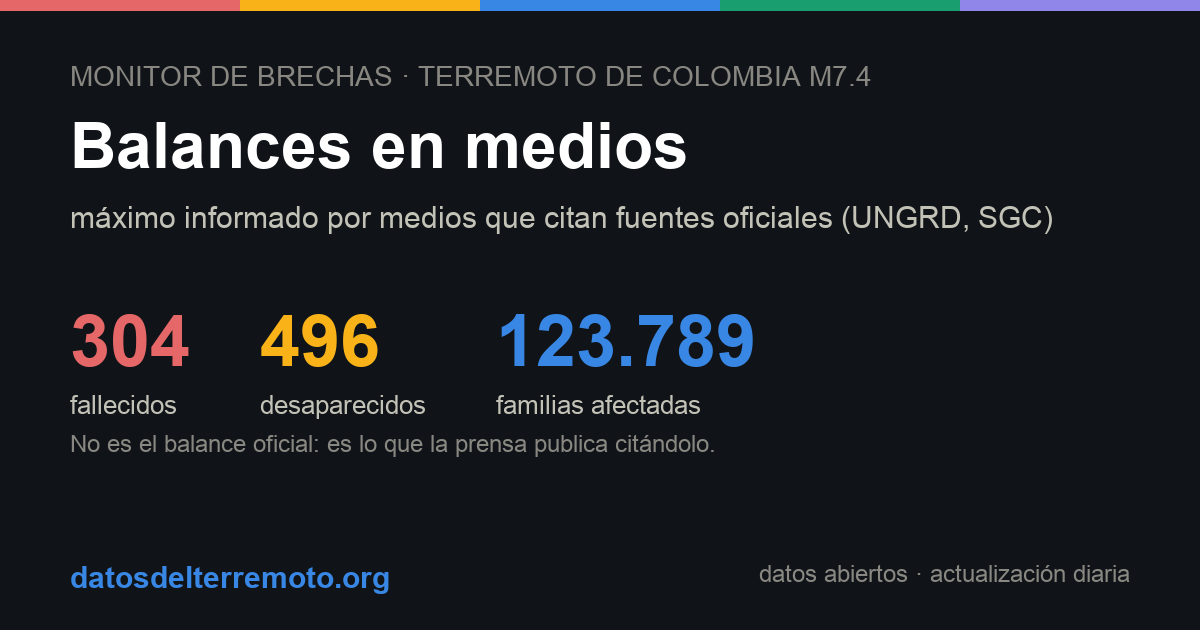
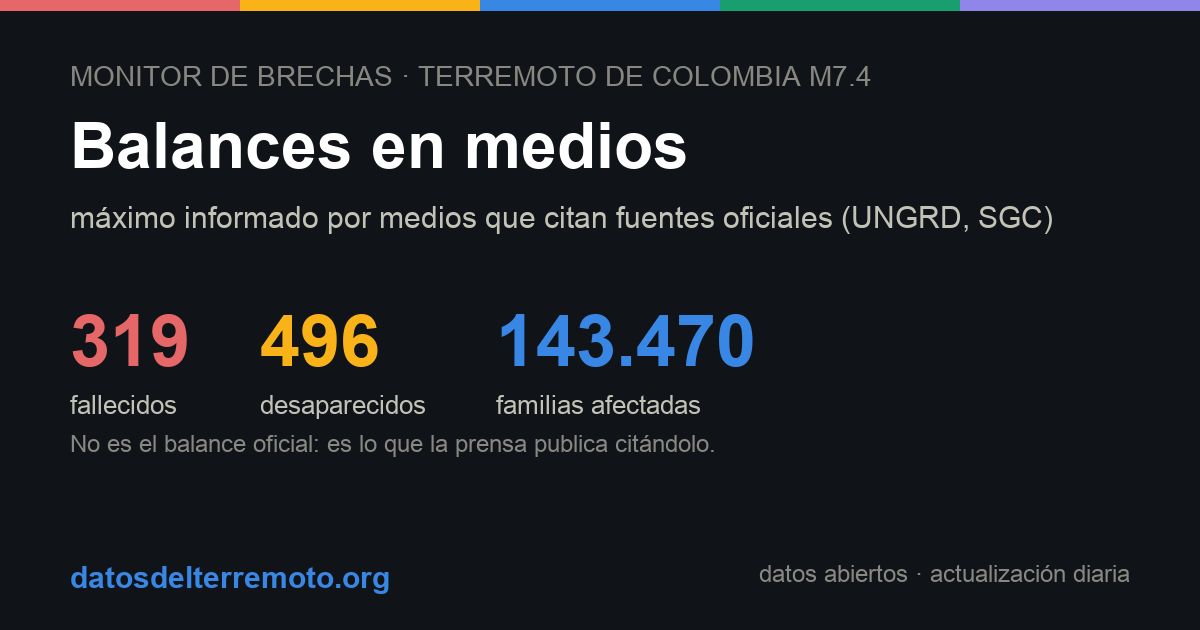
La imagen que se comparte se genera en la corrida, no después: el bucle que dejó la web dos días sin publicar
`gen_og.py` solo corría en el deploy y su resultado no volvía al repositorio, así que
`site/og/portada.json` envejecía cada día hasta contradecir a `monitor.json` —542 reportes
ciudadanos frente a 622—, el test que lo vigila suspendía, y ese suspenso apagaba el deploy,
que era justo lo único capaz de regenerar la imagen. El 22 se cerró el aviso corrigiendo la
cifra a mano y volvió al día siguiente: el bucle no se rompe por el lado del síntoma.

Ahora la corrida diaria regenera las imágenes antes de los tests que las juzgan y `site/og/`
entra en el commit del día. Son las dos mitades: generar sin commitear deja el repositorio
con la imagen vieja mañana, y el bucle se reabre.

El test nuevo vigila las dos —que se genere antes de juzgar y que lo generado se
commitee—, validado mutando cada mitad por separado y también el orden.

Changed region(s): [[0.5242, 0.4825, 0.6167, 0.6032], [0.0925, 0.4825, 0.1542, 0.6032], [0.4317, 0.4825, 0.4933, 0.6032]]

diff --git a/tests/test_unit.py b/tests/test_unit.py
@@ -2366,3 +2366,29 @@ class TestLaImagenCompartidaNoSeQuedaAtras(unittest.TestCase):
             "gen_og.py", build,
             "build_dist.sh no regenera las imágenes compartidas: volverán a "
             "quedarse atrás en silencio la próxima vez que cambie una cifra")
+
+    def test_la_corrida_diaria_regenera_la_imagen_antes_de_juzgarla(self):
+        """El bucle que dejó la web dos días sin publicar (23 y 24-ago-2026).
+
+        Regenerar en el deploy no basta: allí ya se hacía, pero el resultado
+        no volvía al repo, así que el fichero versionado envejecía y el test
+        de arriba suspendía cada mañana — y ese suspenso apagaba el deploy,
+        que era lo único que regeneraba la imagen. Para romperlo hacen falta
+        las dos mitades: generar ANTES de juzgar, y commitear lo generado."""
+        daily = (self.RAIZ / ".github" / "workflows" / "daily.yml").read_text(
+            encoding="utf-8")
+        gen = daily.find("gen_og.py")
+        juicio = daily.find("tests.test_unit")
+        commit = daily.find("git add -A")
+        self.assertNotEqual(gen, -1,
+                            "la corrida diaria ya no regenera las imágenes "
+                            "sociales: volverán a envejecer hasta suspender")
+        self.assertLess(
+            gen, juicio,
+            "la corrida regenera la imagen DESPUÉS de juzgarla: el test la "
+            "seguirá encontrando vieja cada mañana")
+        self.assertIn(
+            "site/og/", daily[commit:commit + 120],
+            "lo regenerado no entra en el commit del día: mañana el repo "
+            "vuelve a traer la imagen vieja y el bucle se reabre")
+
